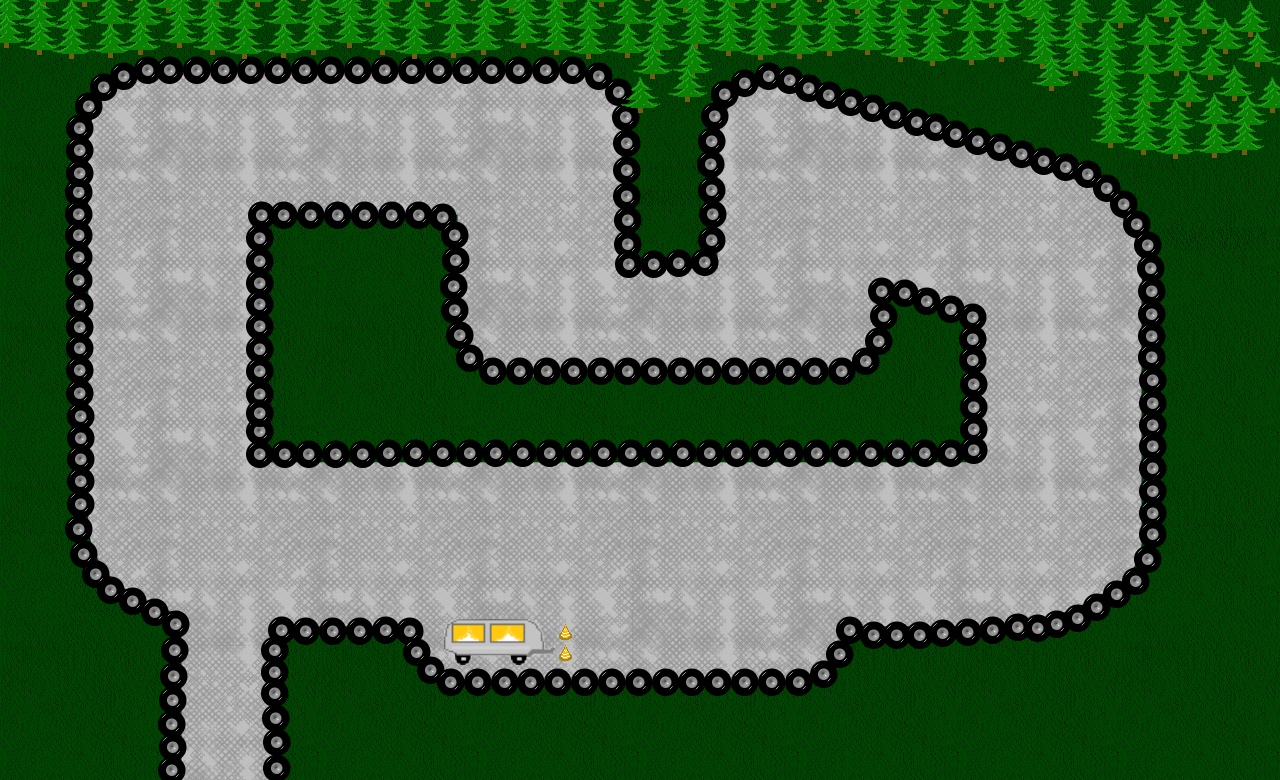
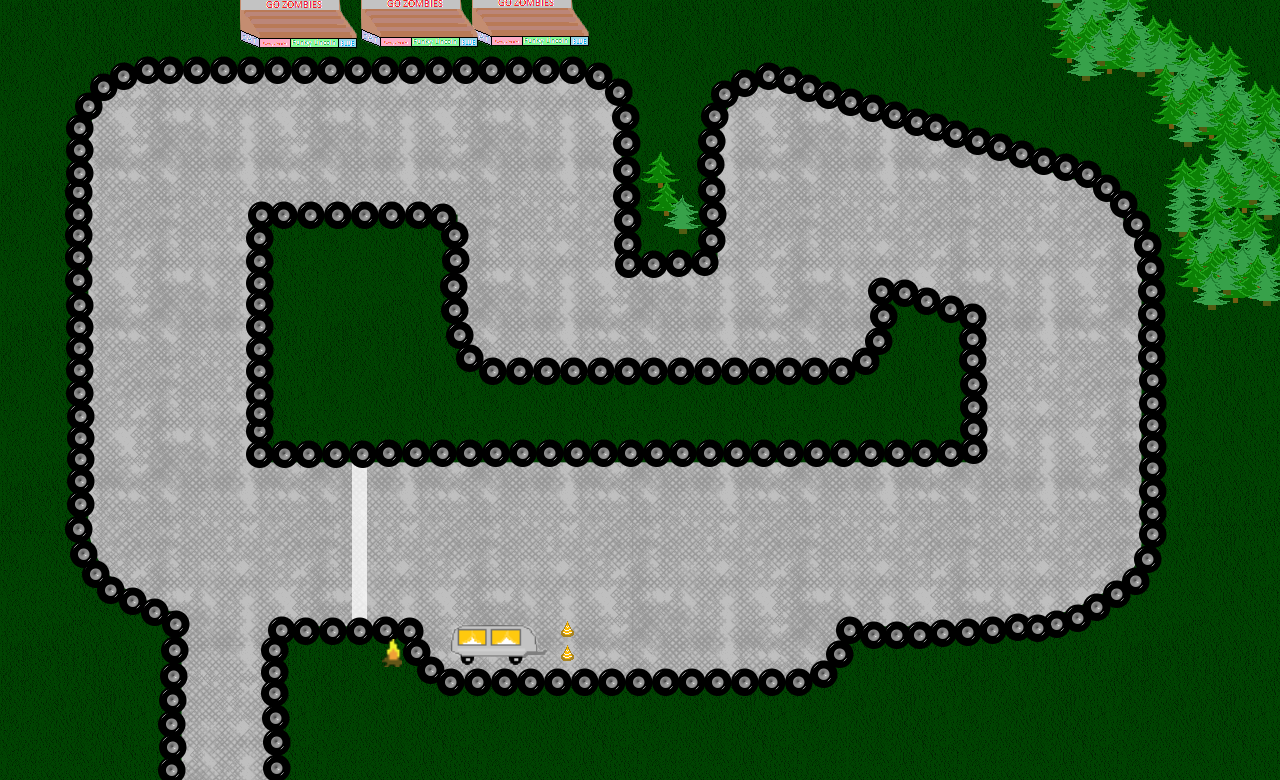
updated Track graphics and prerendered finishline

diff --git a/td-racing/core/src/com/mygdx/game/gamestate/state/PlayState.java b/td-racing/core/src/com/mygdx/game/gamestate/state/PlayState.java
@@ -596,8 +596,7 @@ public class PlayState extends GameState implements CollisionCallbackInterface, 
 		}
 		// draw track bg
 		this.map.draw(spriteBatch);
-		// draw finish line
-		this.finishline.draw(spriteBatch);
+
 
 		spriteBatch.end();
 		Gdx.gl.glEnable(GL20.GL_BLEND);
